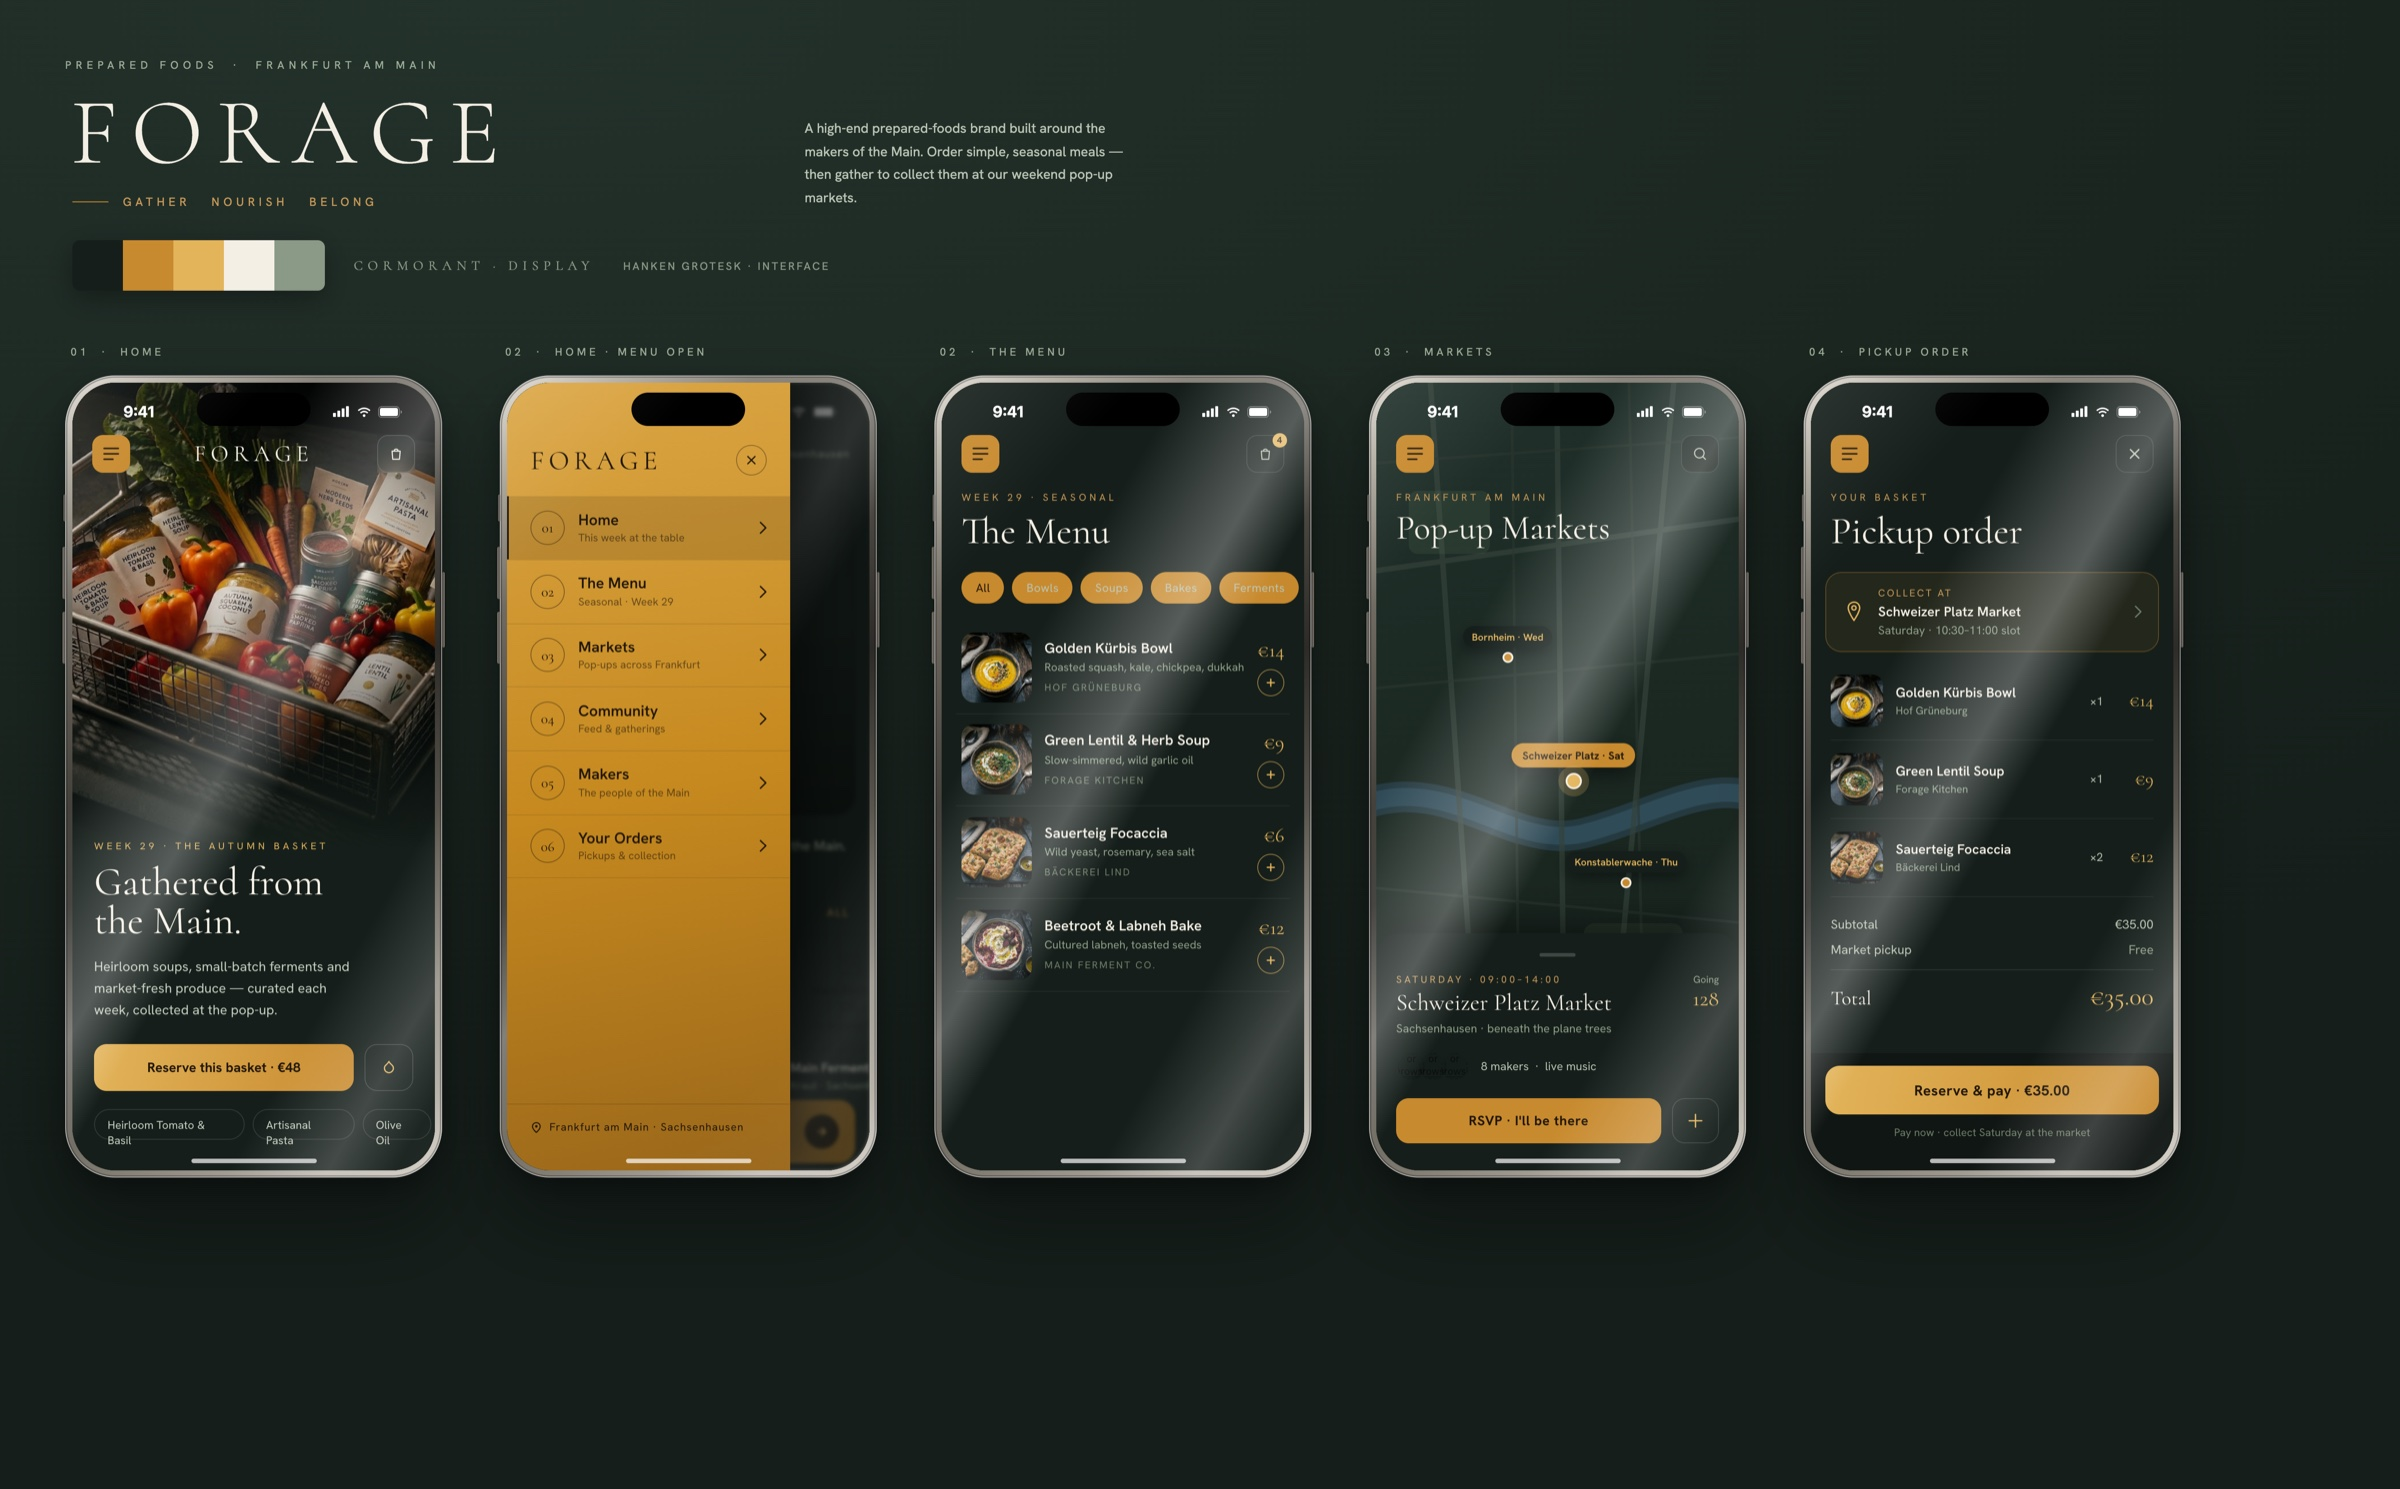
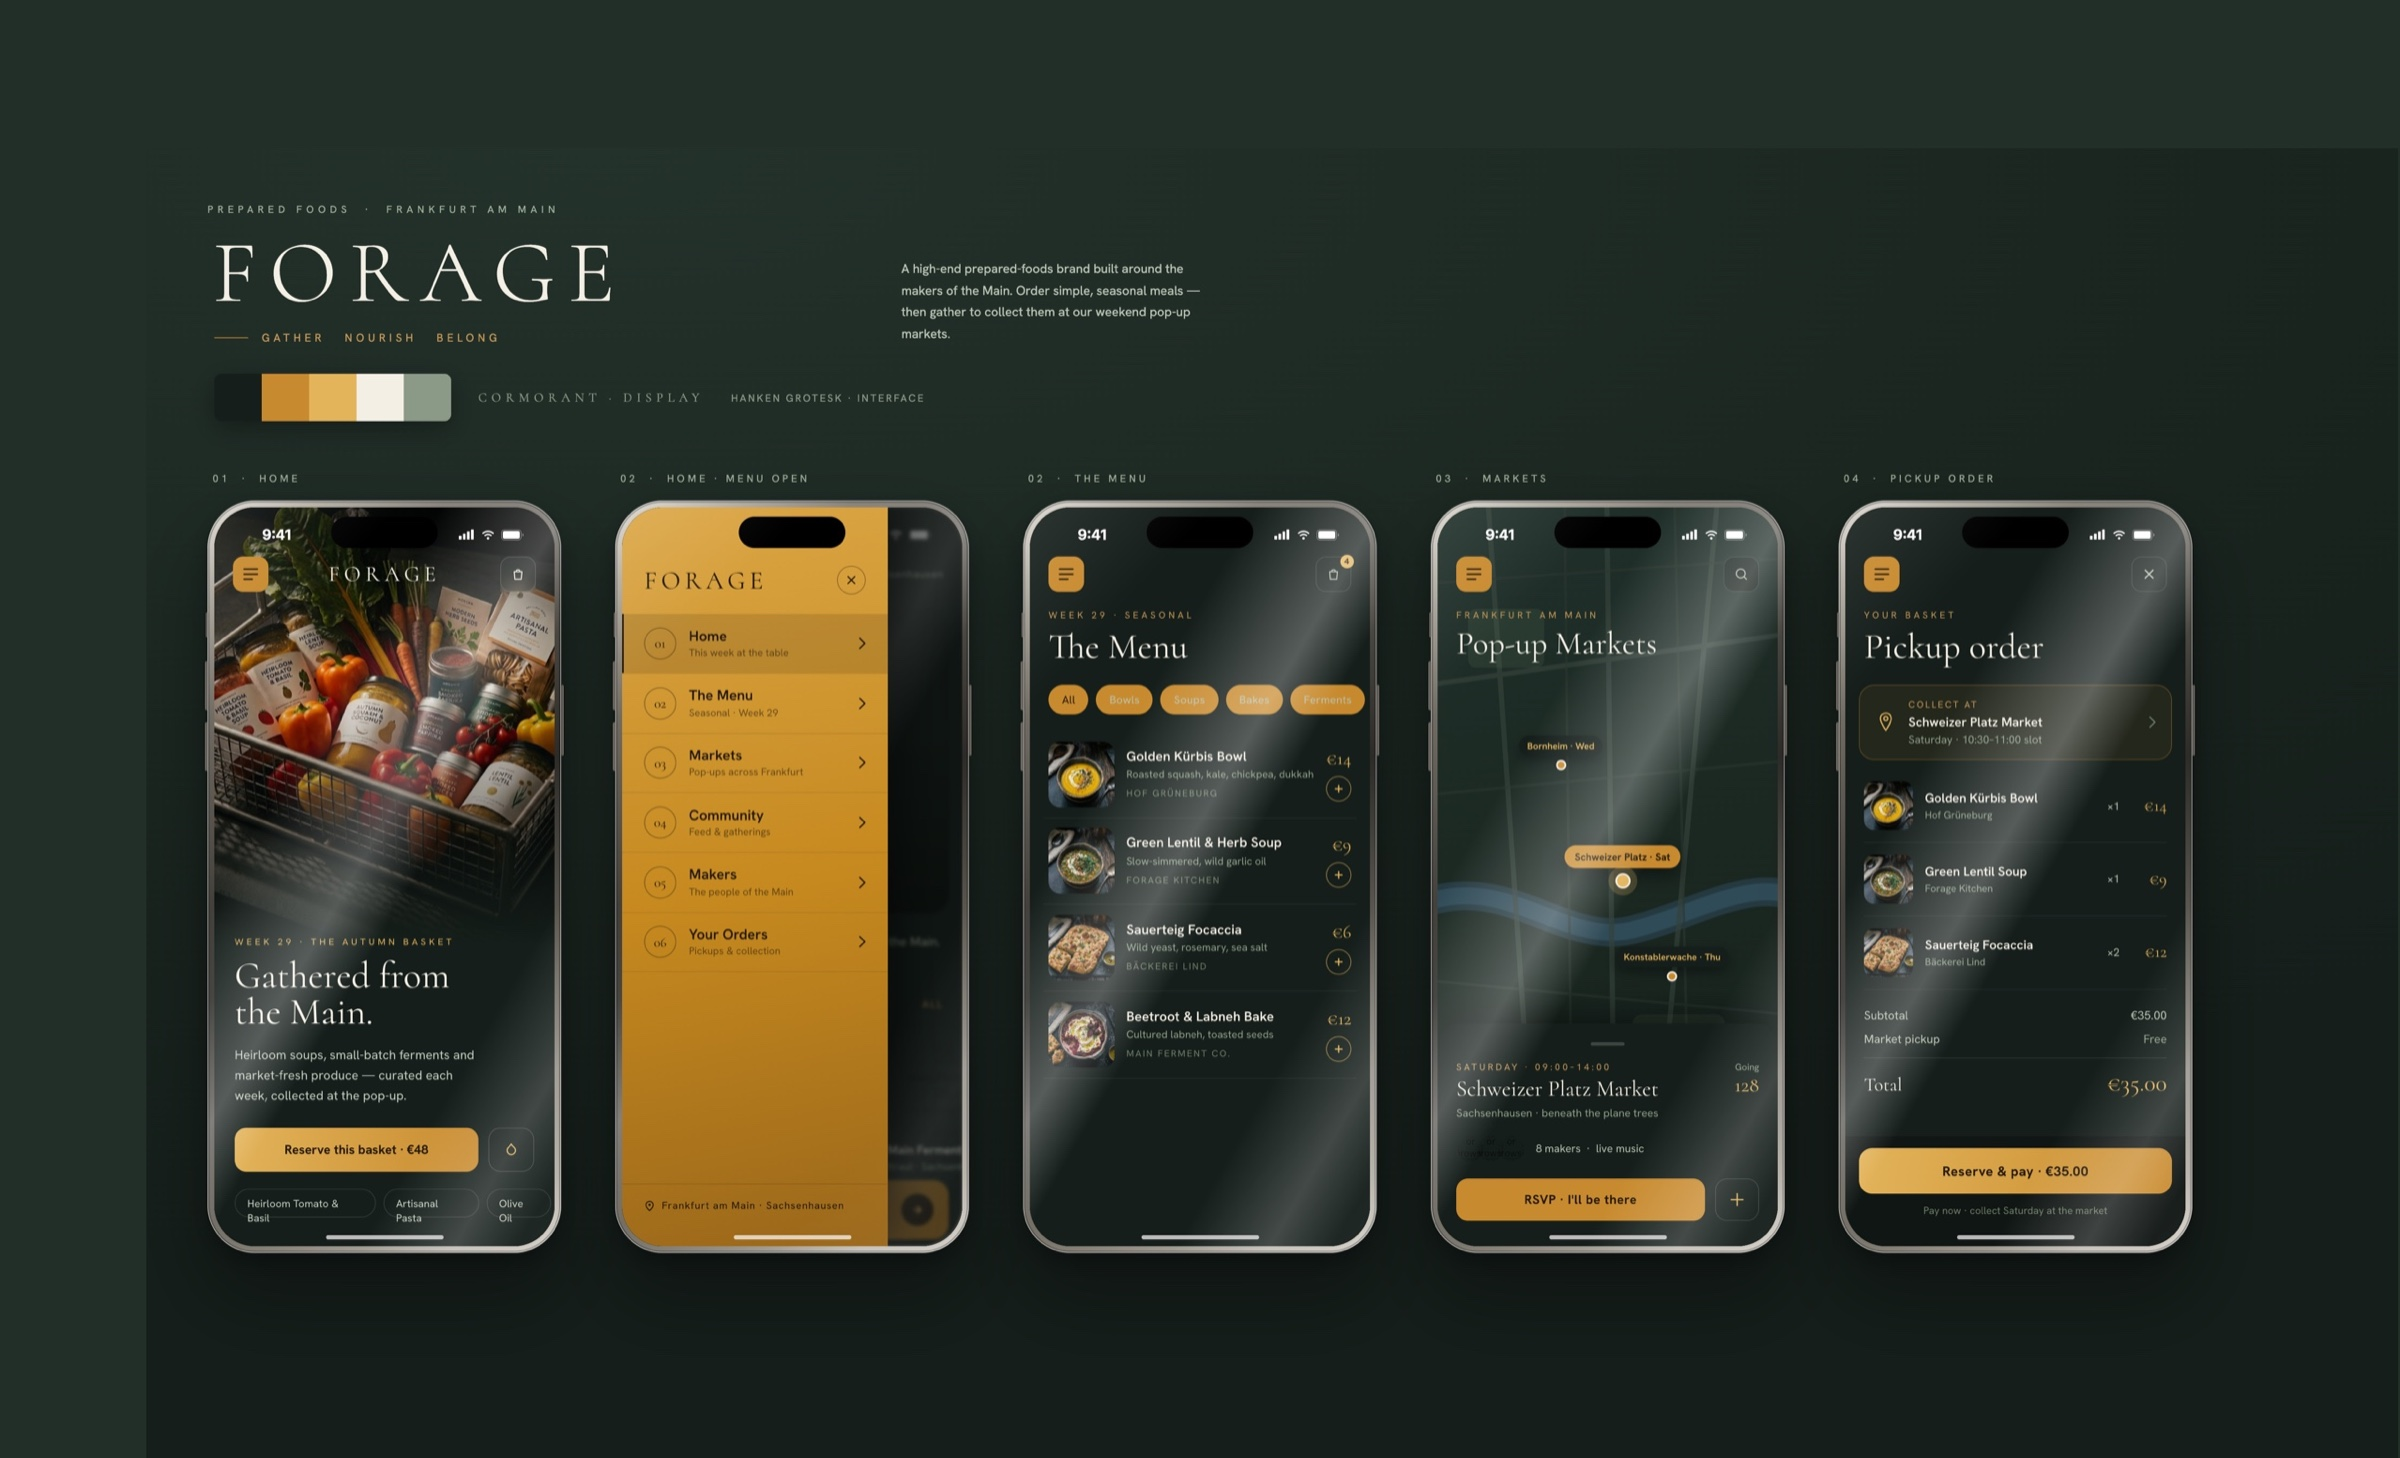
Forage: center type+screens in green; add dot before 'Project in progress'

diff --git a/forage.html b/forage.html
@@ -33,6 +33,10 @@
   /* HERO */
   .fhero{padding:110px 0 12px}
   .eyebrow{font-family:var(--mono);font-size:11px;letter-spacing:.18em;color:var(--accent);text-transform:uppercase;margin-bottom:24px}
+  .fhead-top{display:flex;align-items:center;gap:9px;flex-wrap:wrap;margin-bottom:24px}
+  .fhead-top .eyebrow{margin-bottom:0}
+  .fdot{font-family:var(--mono);font-size:11px;color:var(--accent)}
+  .status-note{font-family:var(--mono);font-size:11px;letter-spacing:.12em;text-transform:uppercase;color:var(--accent)}
   .ftitle{font-family:var(--display);text-transform:uppercase;font-size:clamp(64px,10vw,132px);line-height:.88;letter-spacing:.03em}
   .fintro{margin-top:30px;display:flex;flex-direction:column;gap:20px;max-width:70ch}
   .fintro p{font-size:18px;line-height:1.62;color:var(--dim)}
@@ -88,7 +92,11 @@
 
 <header class="fhero">
   <div class="wrap">
-    <p class="eyebrow">Vibe Coding</p>
+    <div class="fhead-top">
+      <p class="eyebrow">Vibe Coding</p>
+      <span class="fdot">·</span>
+      <span class="status-note">Project in progress</span>
+    </div>
     <h1 class="ftitle">Forage</h1>
     <div class="fintro">
       <p><strong>Forage</strong> is a self-initiated project in vibe coding — designing and building a complete brand and product concept end to end, with AI as a creative collaborator.</p>
@@ -104,7 +112,7 @@
 </header>
 
 <section class="wrap">
-  <div class="bigimg"><img src="assets/img/forage-detail.jpg" alt="Forage — brand system and mobile app screens: home, menu, pop-up markets, and pickup order" /></div>
+  <div class="bigimg"><img src="assets/img/forage-detail.jpg?v=2" alt="Forage — brand system and mobile app screens: home, menu, pop-up markets, and pickup order" /></div>
 </section>
 
 <section class="contact-cta" id="contact">